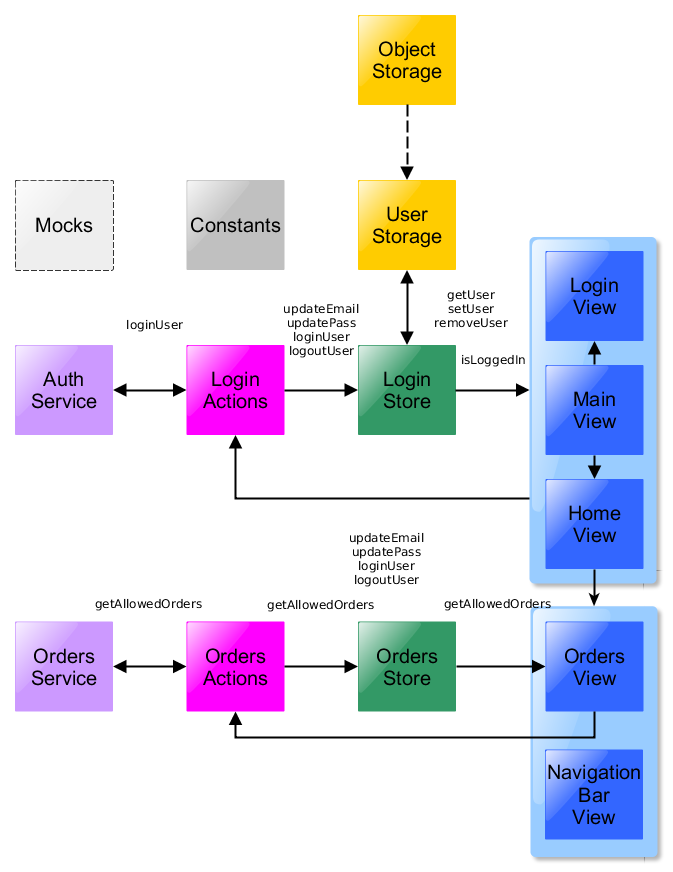
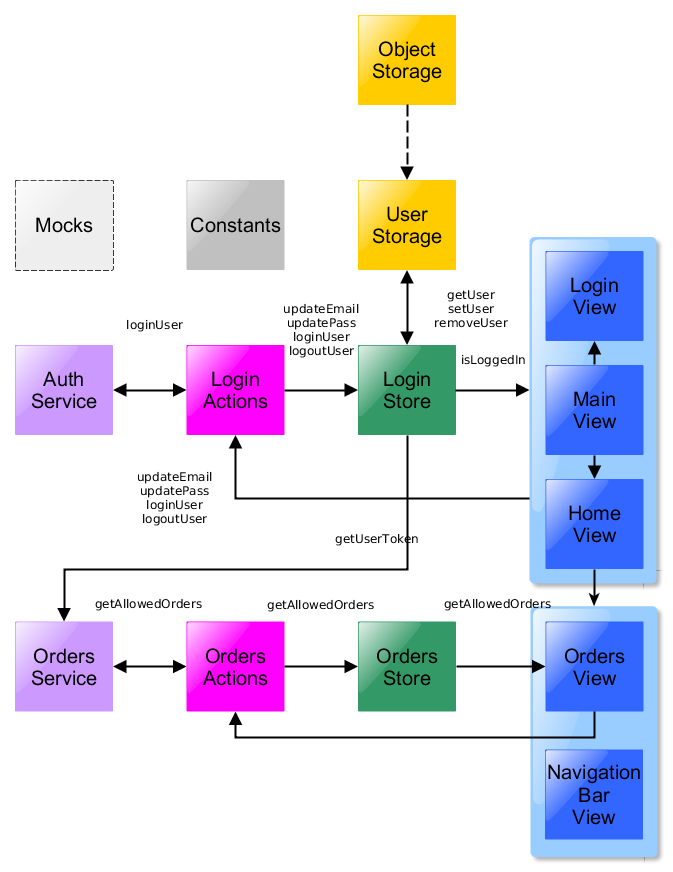
Moved LoginStore connection from OrdersAction to OrdersService

Changed region(s): [[0.0936, 0.4954, 0.6241, 0.7122], [0.2184, 0.5264, 0.312, 0.6193]]

diff --git a/src/actions/ordersActions.js b/src/actions/ordersActions.js
@@ -1,7 +1,6 @@
 import flux from 'control';
 import {createActions} from 'alt/utils/decorators';
 import OrdersService from 'services/ordersService';
-import LoginStore from 'stores/loginStore';
 
 @createActions(flux)
 class OrdersActions {
@@ -24,8 +23,7 @@ class OrdersActions {
 
   removeOrder(order_id) {
   	var request = {
-  		order_id: order_id,
-  		user_token: LoginStore.getState().user.token
+  		order_id: order_id
   	};
 	  OrdersService.removeOrder(request)
 	    .then((status) => {

diff --git a/src/services/ordersService.js b/src/services/ordersService.js
@@ -1,4 +1,5 @@
 import {API_GET_ORDERS_URL} from 'constants/constants';
+import LoginStore from 'stores/loginStore';
 import Mocks from 'mocks/mocks';
 
 var request = require('superagent');
@@ -25,6 +26,7 @@ var ordersService = {
   },
 
   removeOrder: function (requestData) {
+  	requestData.user_token = LoginStore.getState().user.token;
     return new Promise(function (resolve, reject) {
     	request
 				.post(API_GET_ORDERS_URL)
